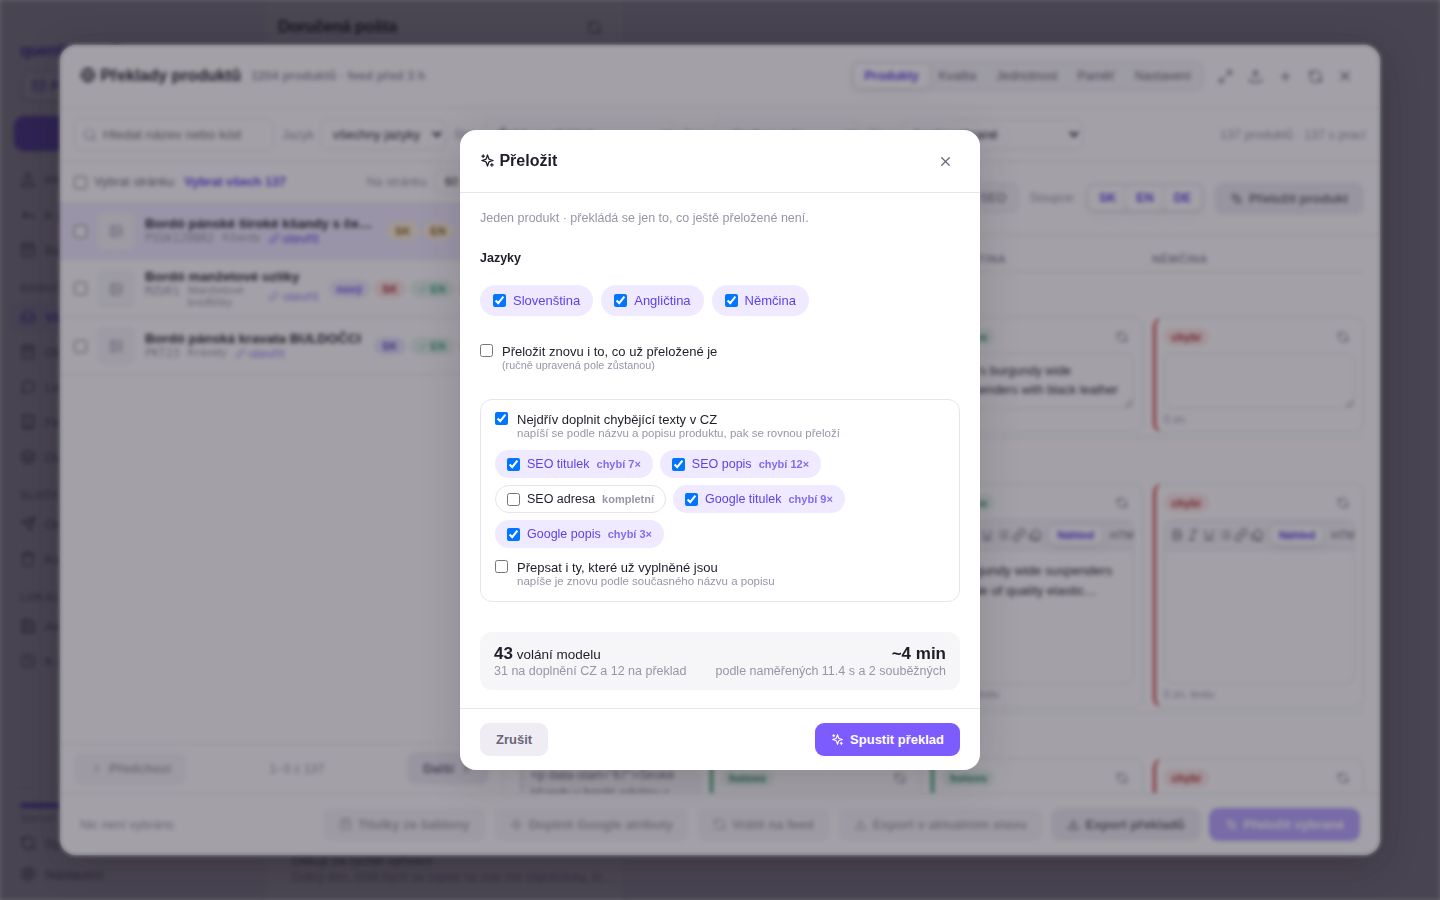
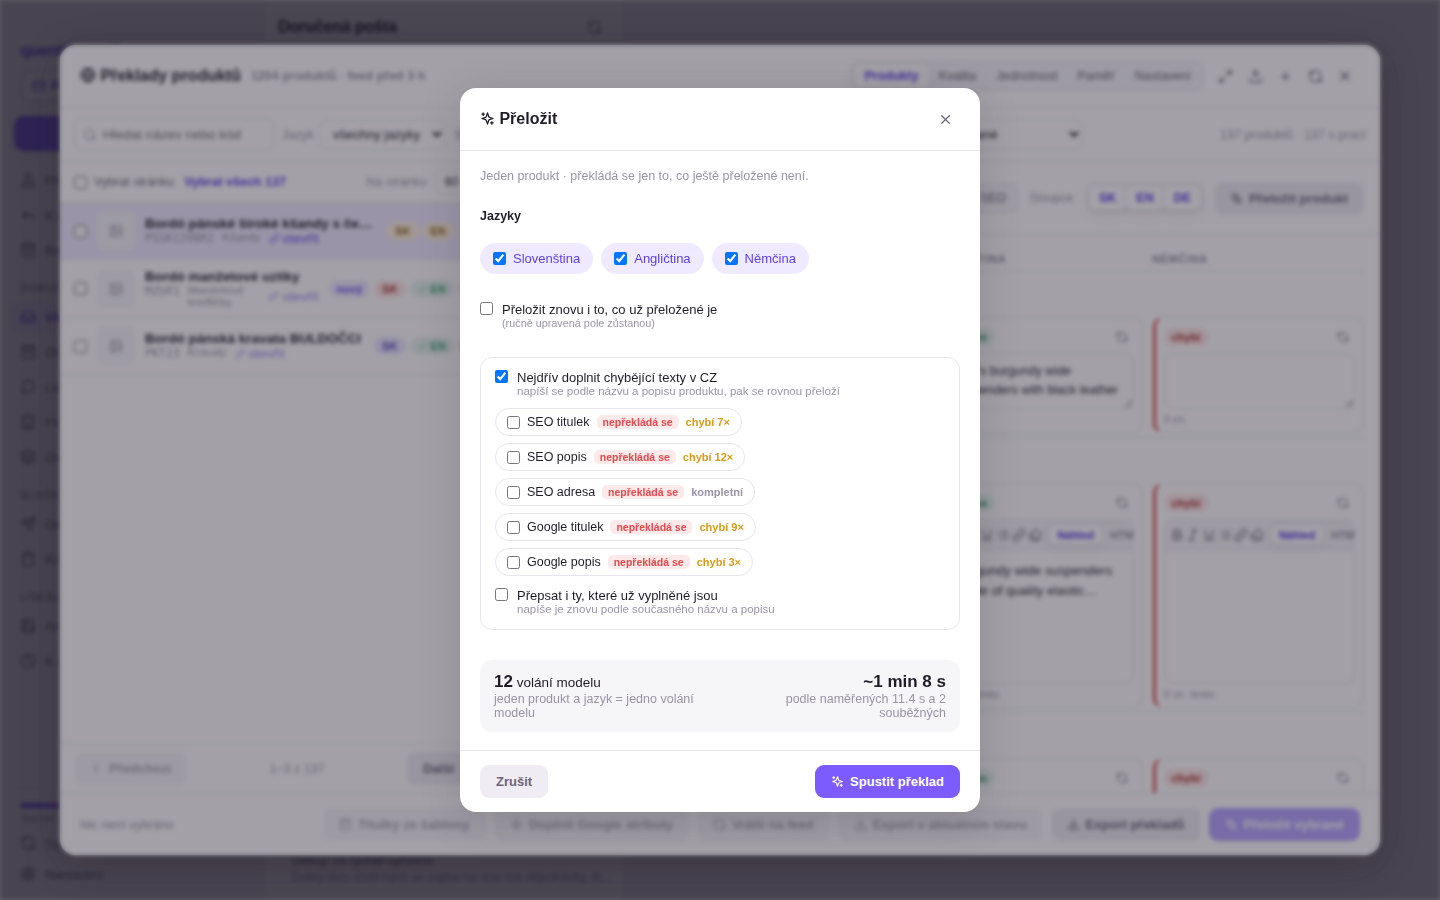
Překlad neřekl, že nemá z čeho překládat
Doplnění SEO a Google textů „nefungovalo" — a aplikace u toho tvrdila, že
je hotovo.

Přeložit jde jen to, co ve zdrojovém jazyce existuje. Pole bez českého
znění se do zadání pro model nedávalo (správně), ale i tak se započítalo
jako hotový úkol. Běh skončil hláškou „Hotovo: 4 položek, 0 selhalo"
a v seznamu se nezměnilo nic. Ověřeno nad skutečným feedem: 75 produktů
nemá český SEO titulek ani popis, což je 300 polí, která takhle tiše
propadala.

Nově se to počítá a hlásí: běh vrací `noSource` i názvy polí a rozhraní
ukáže „Hotovo, ale 8× chybí české znění (SEO titulek, SEO meta popis) —
zapni ‚Doplnit chybějící české texty'". Místo mlčení pokyn, co udělat.

Druhá polovina: **Google titulek a popis jsou ve výchozím nastavení
vypnuté**. Doplnit se v češtině daly, ale do žádného trhu se nedostaly,
protože překlad je nesleduje. V okně spuštění se u takového pole nově
ukáže „nepřekládá se" a nepředvyplňuje se — ať se za text nezaplatí modelu
zbytečně. Zapnout se dají v Nastavení překladů.

Zkouška `tools/ptrans/nosource-test.cjs` staví produkt přesně v tom stavu
z feedu (název je, český SEO titulek chybí) a hlídá, že se to nahlásí, že
se kvůli tomu vůbec nevolá model a že smíšený případ přeloží, co jde,
a chybějící zdroj přesto připomene.

Claude-Session: https://claude.ai/code/session_0118FUGUCarsrFjwUyJm4zFd

diff --git a/src/main/ptrans/translate.ts b/src/main/ptrans/translate.ts
@@ -242,8 +242,8 @@ export function slugify(value: string): string {
  * Vrací, kolik polí se opravdu uložilo. Chyba se nevyhazuje výš — jeden
  * nepovedený produkt nesmí zastavit dávku o tisíci kusech.
  */
-export async function translateOne(target: TranslateTarget,
-                                   signal?: AbortSignal): Promise<{ saved: number; error?: string }> {
+export async function translateOne(target: TranslateTarget, signal?: AbortSignal):
+  Promise<{ saved: number; error?: string; noSource?: string[] }> {
   const s = getPtransSettings();
   const model = s.model || getSettings().draftModel;
   const rows = productFields(target.code, [target.lang]);
@@ -251,13 +251,31 @@ export async function translateOne(target: TranslateTarget,
   const wanted = (target.fields?.length ? target.fields : rows.map(r => r.field))
     .filter(field => !DERIVED_FIELDS.has(field));
 
+  /*
+   * Přeložit jde jen to, co ve zdrojovém jazyce existuje.
+   *
+   * Pole bez českého znění se do zadání pro model nedává — nemá co překládat.
+   * Dřív se ale takové pole i tak započítalo jako hotový úkol a běh skončil
+   * hláškou „hotovo, 0 chyb", i když se nezměnilo vůbec nic. Nejčastější
+   * případ je chybějící český SEO titulek: v seznamu svítí „čeká na překlad",
+   * překlad proběhne, a je to pořád stejné. Proto se to teď počítá a nahlásí.
+   */
   const payload: Record<string, string> = {};
+  const noSource: string[] = [];
   for (const field of wanted) {
     const row = rows.find(r => r.field === field);
     const source = row?.source ?? '';
     if (source.trim()) payload[field] = source;
+    else noSource.push(field);
   }
-  if (Object.keys(payload).length === 0) return { saved: 0 };
+  if (Object.keys(payload).length === 0) {
+    return {
+      saved: 0,
+      noSource,
+      error: `${target.code} (${target.lang}): ${noSource.map(f => FIELD_LABELS[f] ?? f).join(', ')}`
+        + ` — chybí text ve zdrojovém jazyce, není co překládat`
+    };
+  }
 
   const product = getDb().prepare('SELECT title, category, manufacturer FROM ptrans_products WHERE code = ?')
     .get(target.code) as { title: string; category: string; manufacturer: string } | undefined;
@@ -309,7 +327,7 @@ export async function translateOne(target: TranslateTarget,
       const result = applySlug(target.code, target.lang, rows, model, translated.title);
       if (result) saved += result.redirect ? 2 : 1;
     }
-    return { saved };
+    return { saved, noSource };
   } catch (e: any) {
     return { saved: 0, error: `${target.code} (${target.lang}): ${e.message}` };
   }
@@ -380,6 +398,15 @@ export interface RunResult {
   seconds: number;
   errors: string[];
   cancelled: boolean;
+  /**
+   * Kolik polí se nepřeložilo proto, že chybí text ve zdrojovém jazyce.
+   *
+   * Není to chyba běhu, ale ani úspěch: běh doběhne a v seznamu se nic
+   * nezmění. Bez tohohle čísla to vypadá, že překlad nefunguje.
+   */
+  noSource: number;
+  /** Kterých polí se to týká — do hlášky „doplň nejdřív české texty" */
+  noSourceFields: string[];
 }
 
 /**
@@ -405,8 +432,10 @@ export async function run(input: RunInput): Promise<RunResult> {
   const speed = new Speed(s.secondsPerUnit || 12);
   const started = Date.now();
   const errors: string[] = [];
+  const noSourceFields: string[] = [];
   let done = 0;
   let failed = 0;
+  let noSource = 0;
   // Celek běhu = doplnění zdroje + překlad. Drží se zvlášť, protože po
   // doplnění se plán překladu přepočítává a `work.length` se mění.
   let total = work.length;
@@ -483,6 +512,10 @@ export async function run(input: RunInput): Promise<RunResult> {
       speed.add((Date.now() - at) / 1000);
 
       done++;
+      for (const field of result.noSource ?? []) {
+        noSource++;
+        if (!noSourceFields.includes(field)) noSourceFields.push(field);
+      }
       if (result.error && !isAborted(result)) {
         failed++;
         errors.push(result.error);
@@ -512,5 +545,10 @@ export async function run(input: RunInput): Promise<RunResult> {
   emit('ptrans:progress', current);
   emit('ptrans:changed', {});
 
-  return { done, failed, seconds, errors: errors.slice(0, 20), cancelled };
+  return {
+    done, failed, seconds, cancelled,
+    errors: errors.slice(0, 20),
+    noSource,
+    noSourceFields: noSourceFields.map(field => FIELD_LABELS[field] ?? field)
+  };
 }

diff --git a/src/renderer/src/components/ProductsModal.tsx b/src/renderer/src/components/ProductsModal.tsx
@@ -967,7 +967,7 @@ function RunDialog({ codes, overview, onClose, onStarted }: {
   const [forceSource, setForceSource] = useState(false);
   const [sourceFields, setSourceFields] = useState<string[]>([]);
   const [gaps, setGaps] = useState<{
-    fields: { field: string; label: string; missing: number }[];
+    fields: { field: string; label: string; missing: number; translated: boolean }[];
     total: number; sourceLang: string;
   } | null>(null);
 
@@ -987,7 +987,9 @@ function RunDialog({ codes, overview, onClose, onStarted }: {
         setGaps(data);
         // Předvyplní se jen pole, kde opravdu něco chybí — nabízet doplnění
         // něčeho, co je kompletní, jen mate
-        setSourceFields(prev => (prev.length ? prev : data.fields.filter(f => f.missing > 0).map(f => f.field)));
+        setSourceFields(prev => (prev.length
+          ? prev
+          : data.fields.filter(f => f.missing > 0 && f.translated).map(f => f.field)));
       })
       .catch(() => { if (!cancelled) setGaps(null); });
     return () => { cancelled = true; };
@@ -1009,9 +1011,17 @@ function RunDialog({ codes, overview, onClose, onStarted }: {
         codes, langs, force,
         fillSource, sourceFields: fillSource ? sourceFields : [], forceSource
       });
-      toast(result.failed
-        ? `Hotovo: ${result.done - result.failed} přeloženo, ${result.failed} selhalo`
-        : `Hotovo: ${result.done} položek za ${humanTime(result.seconds)}`);
+      // Pole bez českého znění nejsou chyba, ale ani úspěch: běh doběhne
+      // a v seznamu se nic nezmění. Bez téhle věty to vypadá, že překlad
+      // nefunguje — přitom stačí zapnout doplnění českých textů.
+      if (result.noSource > 0) {
+        toast(`Hotovo, ale ${result.noSource}× chybí české znění`
+          + ` (${result.noSourceFields.join(', ')}) — zapni „Doplnit chybějící české texty".`, 'error');
+      } else {
+        toast(result.failed
+          ? `Hotovo: ${result.done - result.failed} přeloženo, ${result.failed} selhalo`
+          : `Hotovo: ${result.done} položek za ${humanTime(result.seconds)}`);
+      }
     } catch (e: any) {
       toast(e.message, 'error');
     } finally {
@@ -1079,6 +1089,14 @@ function RunDialog({ codes, overview, onClose, onStarted }: {
                           ? prev.filter(f => f !== item.field)
                           : [...prev, item.field])} />
                       {item.label}
+                      {/* Vypnuté pole se doplní v češtině, ale do žádného trhu
+                          se nedostane — to je potřeba říct dřív, než se za to
+                          zaplatí modelu */}
+                      {!item.translated && (
+                        <span className="pt-off" data-tip="Pole se nepřekládá — zapni ho v Nastavení">
+                          nepřekládá se
+                        </span>
+                      )}
                       <b className={item.missing ? 'miss' : ''}>
                         {item.missing ? `chybí ${item.missing}×` : 'kompletní'}
                       </b>

diff --git a/src/main/ptrans/source.ts b/src/main/ptrans/source.ts
@@ -103,13 +103,23 @@ export function countMissing(codes: string[], fields?: SourceField[]): number {
   return planSourceFill({ codes, fields }).length;
 }
 
-/** Přehled po polích: kolik produktů z výběru nemá v češtině co. */
-export function missingByField(codes: string[]): { field: SourceField; label: string; missing: number }[] {
+/**
+ * Přehled po polích: kolik produktů z výběru nemá v češtině co.
+ *
+ * Součástí je i `translated` — jestli se pole vůbec překládá. Google texty
+ * jsou ve výchozím nastavení vypnuté, takže se dají doplnit v češtině, ale
+ * do žádného trhu se nedostanou. Bez téhle informace to vypadá, že překlad
+ * Google textů nefunguje; přitom se prostě nesleduje.
+ */
+export function missingByField(codes: string[]):
+  { field: SourceField; label: string; missing: number; translated: boolean }[] {
   const s = getPtransSettings();
   return SOURCE_FIELDS.map(field => ({
     field,
     label: SOURCE_LABELS[field],
-    missing: codes.filter(code => !fieldValue(code, s.sourceLang, field)).length
+    missing: codes.filter(code => !fieldValue(code, s.sourceLang, field)).length,
+    // seo_url se nepřekládá schválně — skládá ho kód z přeloženého názvu
+    translated: field === 'seo_url' ? true : s.fields[field] !== false
   }));
 }
 

diff --git a/src/renderer/src/api.ts b/src/renderer/src/api.ts
@@ -118,7 +118,11 @@ export const api = {
       codes: string[]; langs?: string[]; fields?: string[]; force?: boolean;
       fillSource?: boolean; sourceFields?: string[]; forceSource?: boolean;
     }) =>
-      call<{ done: number; failed: number; seconds: number; errors: string[] }>('ptrans:run', input),
+      call<{
+        done: number; failed: number; seconds: number; errors: string[];
+        /** Pole, která se nepřeložila, protože chybí české znění */
+        noSource: number; noSourceFields: string[];
+      }>('ptrans:run', input),
     stop: () => call<boolean>('ptrans:stop'),
     progress: () => call<PtransProgress | null>('ptrans:progress'),
     googleTitles: (codes: string[], langs?: string[]) =>
@@ -213,7 +217,8 @@ export const api = {
     auditSummary: () => call<(PtransAuditSummary & { checkedAt: string | null }) | null>('ptrans:auditSummary'),
     /** Kolik zdrojových textů u výběru chybí — po polích */
     sourceGaps: (codes: string[]) => call<{
-      fields: { field: string; label: string; missing: number }[];
+      /** `translated: false` = pole se doplní, ale do trhů se nepřenese */
+      fields: { field: string; label: string; missing: number; translated: boolean }[];
       total: number;
       sourceLang: string;
     }>('ptrans:sourceGaps', codes),

diff --git a/src/renderer/src/styles.css b/src/renderer/src/styles.css
@@ -4372,6 +4372,15 @@ html[data-form-factor="phone"] .ch-app .sidebar-footer { display: none; }
   color: var(--text-2);
 }
 .pt-check { display: flex; align-items: center; gap: 7px; cursor: pointer; }
+/* Pole, které se doplní, ale nepřekládá — varování dřív, než se za to platí */
+.pt-off {
+  padding: 1px 6px;
+  border-radius: 5px;
+  background: color-mix(in srgb, var(--danger) 12%, transparent);
+  color: var(--danger);
+  font-size: 10.5px;
+  font-weight: 600;
+}
 .pt-perpage { color: var(--text-3); }
 .pt-perpage select { padding: 3px 6px; font-size: 12px; }
 /* Volba s vysvětlivkou pod popiskem — jinak by obojí splynulo na jeden řádek */
